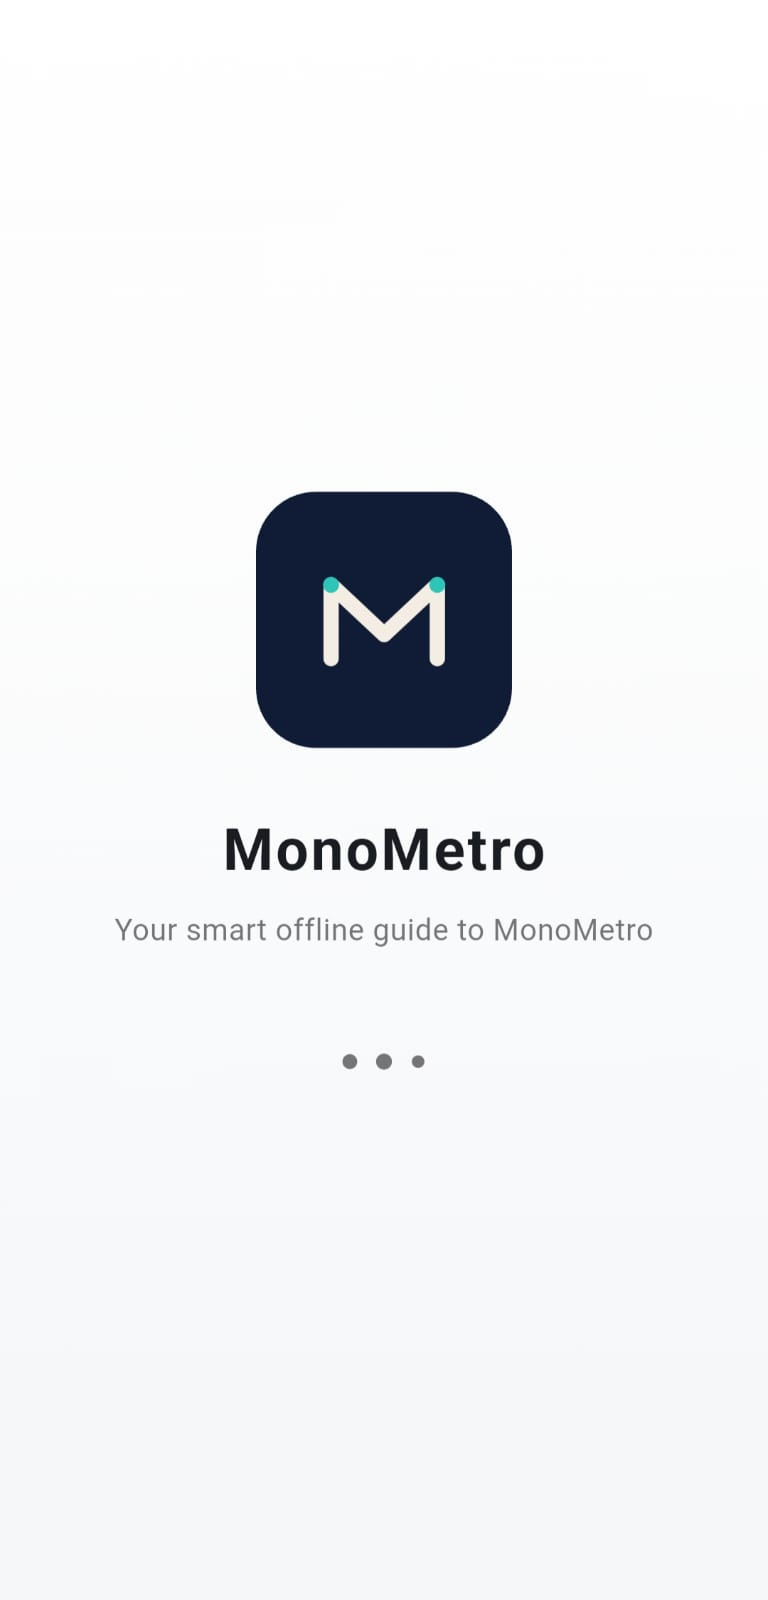
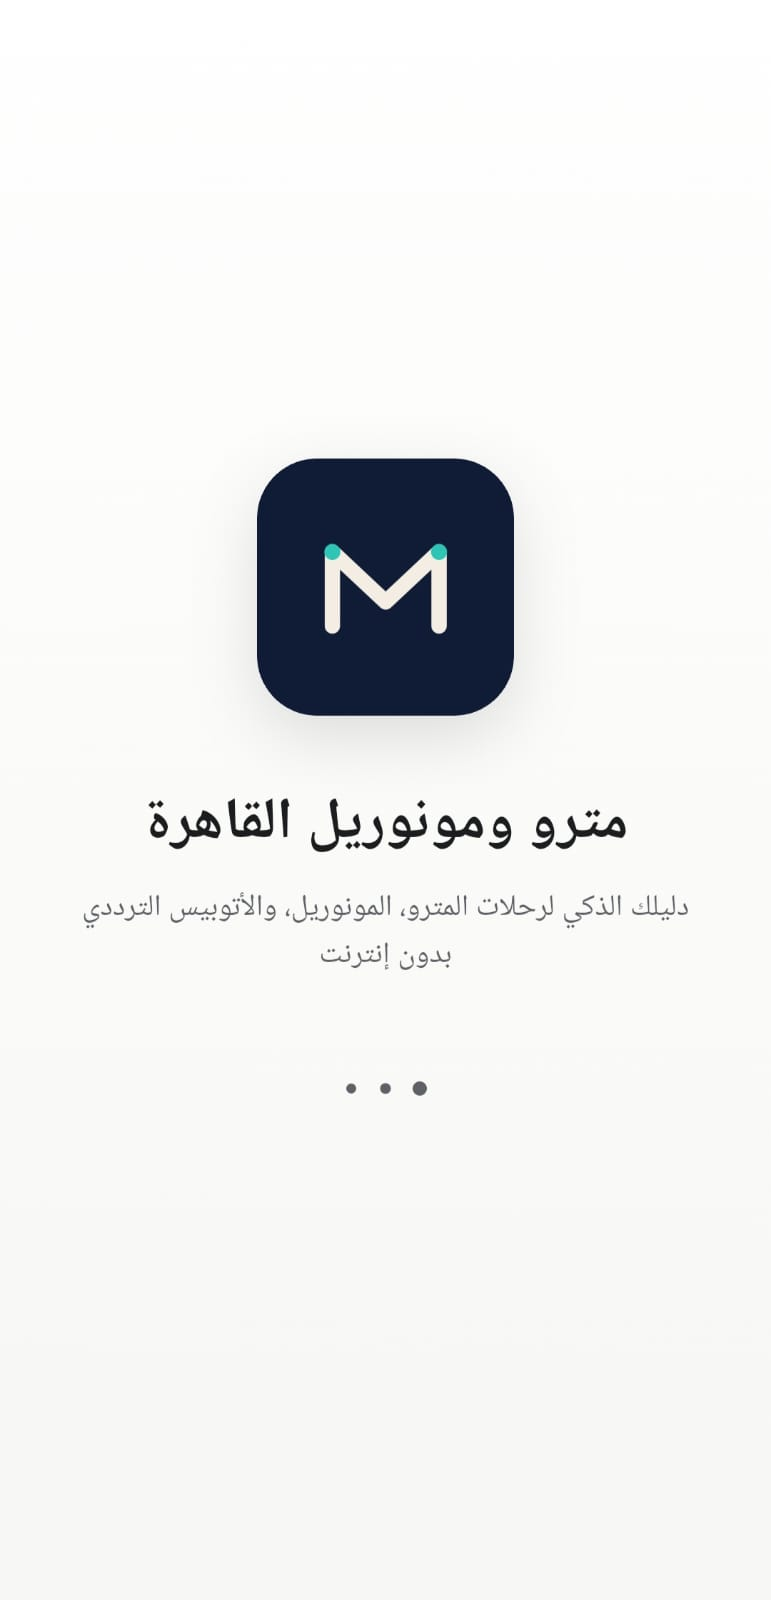
feat: add MonoMetro assets and update Hero component with new app showcases

diff --git a/src/data/portfolioData.ts b/src/data/portfolioData.ts
@@ -140,55 +140,90 @@ export const projects: Project[] = [
   {
     id: 'monometro',
     name: 'MonoMetro',
-    tagline: 'Cairo Metro (3 Lines) & East Nile Monorail Transit App',
-    description: 'Smart Cairo transit navigation guide covering all 3 Metro lines plus the East Nile Monorail with offline shortest-path routing, fare calculations, and AR/EN localization. Currently in review for Google Play Store release.',
+    tagline: 'Cairo Metro (3 Lines), East Cairo Monorail & BRT Transit Guide',
+    description: 'Offline-first transit guide published on Google Play (100+ downloads) covering 3 Cairo Metro lines, the East Cairo Monorail, and a 36-station BRT ring (140+ stations total). AR/EN localization, light/dark themes.',
     category: 'Transit & Utilities',
-    problem: 'Commuters need accessible, multilingual transit route information, station lookup, and fare tier calculations across Metro lines and Monorail routes on the go without cellular connectivity.',
-    solution: 'Developed a fast, responsive mobile app prioritizing accessibility with AR/EN localization, interactive station graphs, and offline routing algorithms.',
+    problem: 'Commuters need accessible, multilingual transit route information, station lookup, and fare tier calculations across Metro lines, Monorail routes, and BRT rings on the go without cellular connectivity.',
+    solution: 'Developed a fast, responsive offline-first mobile app prioritizing accessibility with AR/EN localization, interactive station graphs, GPS nearest-station lookup, and Dijkstra routing algorithms.',
     technologies: [
       'Flutter',
       'Dart',
+      'GetX',
+      'Dijkstra Routing',
+      'Offline-First',
+      'GPS / Location',
       'Localization (AR / EN)',
-      'Offline Routing Logic',
-      'Responsive UI Design',
-      'Accessibility & Theming',
+      'Google Play',
     ],
-    github: 'https://github.com/shimaakhaled1410-hue/metro-flutter',
-    demoUrl: 'https://github.com/shimaakhaled1410-hue/metro-flutter',
-    image: '/assets/Metro_Freelancing_Project_Splash.png',
+    github: 'https://github.com/shimaakhaled1410-hue/MonoMetro-flutter',
+    demoUrl: 'https://play.google.com/store/apps/details?id=com.shimaakhaled.monometro',
+    image: '/assets/Metro_Freelancing_Project_1.png',
     gallery: [
       {
-        title: 'Splash Screen & Rider Category Selection',
-        image: '/assets/Metro_Freelancing_Project_Splash.png',
-        description: 'Modern dark mode onboarding with rider category selection (Standard, Seniors 60+, Special Needs with subsidized 5 EGP fare).',
+        title: 'Dijkstra Routing & Turn-by-Turn Line Navigation',
+        image: '/assets/Metro_Freelancing_Project_1.png',
+        description: 'Fastest vs. comfortable route calculation with accurate ticket pricing, transfer penalties, station counts, and step-by-step colored line guidance.',
       },
       {
-        title: 'Arabic Localized Stations Interface',
-        image: '/assets/Metro_Freelancing_Project_Stations_Arabic.png',
-        description: 'Right-to-Left (RTL) Arabic typography and station routing optimized for native Egyptian commuter experience.',
+        title: 'Station Search by Line & Famous Destinations',
+        image: '/assets/Metro_Freelancing_Project_2.png',
+        description: 'Searchable station directory organized by Metro lines 1, 2, and 3 with prominent interchange badges and direct routing to iconic Cairo landmarks.',
       },
       {
-        title: 'English Stations Interface',
-        image: '/assets/Metro_Freelancing_Project_Stations_English.png',
-        description: 'Left-to-Right (LTR) English station list with line transfers, interchange markers, and travel time estimators.',
+        title: 'Rider Profile Pricing & Trip History',
+        image: '/assets/Metro_Freelancing_Project_3.png',
+        description: 'Tailored fare structures for standard, senior (50% discount), and special-needs riders, paired with offline trip history logging.',
       },
       {
-        title: 'Trip History & Frequent Routes',
-        image: '/assets/Metro_Freelancing_Project_History.png',
-        description: 'Offline trip history tracking previous commutes, saved routes, and quick one-tap directions.',
+        title: 'BRT Ring Network & Offline Metro Map',
+        image: '/assets/Metro_Freelancing_Project_4.png',
+        description: 'Full integration of the 36-station Cairo Bus Rapid Transit (BRT) ring road network alongside a high-resolution offline metro diagram.',
       },
     ],
     featured: true,
     architecturalHighlights: [
-      'Full coverage of Cairo Metro Lines 1, 2, 3 and the East Nile Monorail system',
-      'Bi-directional localization (RTL Arabic / LTR English) built with zero UI shift artifacts',
-      'Offline shortest-path algorithm for multi-line transit route and transfer calculations',
-      'Currently in review for Google Play Store release',
+      'Dijkstra-based routing engine with transfer penalties and walking links',
+      'Fastest and Comfortable (fewest transfers) routing modes with per-mode fare calculation for standard, senior, and special-needs passengers',
+      'Coverage of 3 Cairo Metro lines, the East Cairo Monorail, and a 36-station BRT ring (140+ stations total)',
+      'Nearest-station lookup via GPS, trip history, Arabic/English localization, and light/dark themes',
     ],
     metrics: [
-      { label: 'Lines Supported', value: '3 Metro + Monorail' },
-      { label: 'Connectivity', value: '100% Offline' },
-      { label: 'Status', value: 'Play Store Review' },
+      { label: 'Lines Supported', value: '3 Metro + Monorail + BRT' },
+      { label: 'Stations', value: '140+' },
+      { label: 'Status', value: 'Live on Google Play · 100+ downloads' },
+    ],
+  },
+  {
+    id: 'resqdrive',
+    name: 'ResQDrive',
+    tagline: 'Vehicle Crash Detection (DEPI Graduation Project)',
+    description: 'Native Android vehicle crash detection module built with Kotlin, multi-sensor fusion, and Clean Architecture (10/2026 – Present, DEPI Final Project).',
+    category: 'Native Android & Sensors',
+    problem: 'Detecting vehicular accidents swiftly and reliably on mobile devices without draining device battery through continuous high-frequency sensor polling.',
+    solution: 'Engineered a Native Android (Kotlin) crash detection module using accelerometer and gyroscope listeners, speed gating to preserve battery, and a sliding window buffer for pre-impact sensor fusion.',
+    technologies: [
+      'Kotlin',
+      'Native Android',
+      'Sensors (Accelerometer & Gyroscope)',
+      'Multi-Sensor Fusion',
+      'Clean Architecture',
+    ],
+    github: 'https://github.com/shimaakhaled1410-hue/crash-detection-native-android',
+    demoUrl: 'https://github.com/shimaakhaled1410-hue/crash-detection-native-android',
+    image: '',
+    gallery: [],
+    featured: false,
+    architecturalHighlights: [
+      'Native Android (Kotlin) architecture with dedicated accelerometer and gyroscope sensor listeners',
+      'Sliding window buffer for continuous pre-impact sensor fusion and spike analysis',
+      'Stillness calibration algorithms to confirm post-collision state and eliminate false positives',
+      'Speed gating mechanisms to optimize background battery consumption during normal transit',
+      'Co-architected with Clean Architecture principles as the DEPI Final Project',
+    ],
+    metrics: [
+      { label: 'Platform', value: 'Native Android (Kotlin)' },
+      { label: 'Sensors', value: 'Accelerometer + Gyroscope' },
+      { label: 'Status', value: 'In Development · DEPI Final Project' },
     ],
   },
   {

diff --git a/src/components/ProjectModal.tsx b/src/components/ProjectModal.tsx
@@ -32,7 +32,7 @@ export default function ProjectModal({ project, onClose, onOpenVideo }: ProjectM
 
   if (!project) return null;
 
-  const currentGalleryItem = project.gallery[activeImageIndex] || project.gallery[0];
+  const currentGalleryItem = project.gallery?.[activeImageIndex] || project.gallery?.[0];
 
   return (
     <div className="fixed inset-0 z-50 flex items-center justify-center p-3 sm:p-6 overflow-y-auto bg-slate-950/80 backdrop-blur-md animate-in fade-in duration-200">
@@ -103,16 +103,18 @@ export default function ProjectModal({ project, onClose, onOpenVideo }: ProjectM
           >
             <span className="hidden sm:inline">Clean Arch & </span>State Flow
           </button>
-          <button
-            onClick={() => setActiveTab('gallery')}
-            className={`pb-2.5 px-2 border-b-2 transition-colors whitespace-nowrap ${
-              activeTab === 'gallery'
-                ? 'border-cyan-500 text-cyan-600 dark:text-cyan-400 font-bold'
-                : 'border-transparent text-slate-500 dark:text-slate-400 hover:text-slate-900 dark:hover:text-white'
-            }`}
-          >
-            Gallery ({project.gallery.length})
-          </button>
+          {project.gallery && project.gallery.length > 0 && (
+            <button
+              onClick={() => setActiveTab('gallery')}
+              className={`pb-2.5 px-2 border-b-2 transition-colors whitespace-nowrap ${
+                activeTab === 'gallery'
+                  ? 'border-cyan-500 text-cyan-600 dark:text-cyan-400 font-bold'
+                  : 'border-transparent text-slate-500 dark:text-slate-400 hover:text-slate-900 dark:hover:text-white'
+              }`}
+            >
+              Gallery ({project.gallery.length})
+            </button>
+          )}
         </div>
 
         {/* Scrollable Content */}
@@ -348,7 +350,7 @@ export default function ProjectModal({ project, onClose, onOpenVideo }: ProjectM
           )}
 
           {/* TAB 3: GALLERY */}
-          {activeTab === 'gallery' && (
+          {activeTab === 'gallery' && project.gallery && project.gallery.length > 0 && (
             <div className="space-y-6">
               {currentGalleryItem && (
                 <div className="space-y-3">

diff --git a/src/components/Projects.tsx b/src/components/Projects.tsx
@@ -9,7 +9,8 @@ import {
   ArrowRight, 
   Play, 
   Eye,
-  Video
+  Video,
+  Activity
 } from 'lucide-react';
 import { GithubIcon } from '@/components/Icons';
 
@@ -27,6 +28,7 @@ export default function Projects({ onSelectProject, onOpenVideo }: ProjectsProps
     { id: 'Real-Time & Cloud', label: 'Cloud & Realtime' },
     { id: 'Community & Social', label: 'Social & Community' },
     { id: 'Transit & Utilities', label: 'Transit & Utilities' },
+    { id: 'Native Android & Sensors', label: 'Native Android & Sensors' },
   ];
 
   const filteredProjects = projects.filter((p) => {
@@ -79,7 +81,16 @@ export default function Projects({ onSelectProject, onOpenVideo }: ProjectsProps
               <div>
                 {/* Cover Image */}
                 <div className="relative aspect-[16/9] w-full bg-slate-950 overflow-hidden border-b border-slate-200 dark:border-slate-800">
-                  {project.id === 'trivio' ? (
+                  {project.id === 'resqdrive' || !project.image ? (
+                    <div className="absolute inset-0 flex flex-col items-center justify-center bg-[radial-gradient(ellipse_at_center,_#1e293b_0%,_#0f172a_60%,_#070a11_100%)]">
+                      <div className="w-16 h-16 rounded-2xl bg-cyan-950/60 border border-cyan-800/80 flex items-center justify-center text-cyan-400 group-hover:scale-110 transition-transform duration-500 shadow-lg shadow-cyan-500/10">
+                        <Activity className="w-8 h-8 text-cyan-400" />
+                      </div>
+                      <span className="mt-3 text-xs font-semibold tracking-wider text-slate-400 uppercase font-mono">
+                        Native Android Sensor Fusion
+                      </span>
+                    </div>
+                  ) : project.id === 'trivio' ? (
                     /* Trivio: full-width logo on dark-slate gradient backdrop */
                     <div className="absolute inset-0 flex items-center justify-center bg-[radial-gradient(ellipse_at_center,_#1e293b_0%,_#0f172a_60%,_#070a11_100%)]">
                       <div className="relative w-[85%] h-[60%] group-hover:scale-105 transition-transform duration-500">

diff --git a/src/components/Hero.tsx b/src/components/Hero.tsx
@@ -28,7 +28,7 @@ export default function Hero({ onSelectProject }: HeroProps) {
   const appScreenshots: Record<AppKey, string[]> = {
     calogram: Array.from({ length: 28 }, (_, i) => `/assets/${i + 1} CaloGram.jpeg`),
     wedo: Array.from({ length: 12 }, (_, i) => `/assets/${i + 1} WeDo.jpeg`),
-    monometro: Array.from({ length: 8 }, (_, i) => `/assets/${i + 1} MonoMetro.jpeg`),
+    monometro: Array.from({ length: 15 }, (_, i) => `/assets/${i + 1} MonoMetro.jpeg`),
   };
 
   const appShowcases: Record<AppKey, {
@@ -49,7 +49,7 @@ export default function Hero({ onSelectProject }: HeroProps) {
     monometro: {
       id: 'monometro',
       name: 'MonoMetro',
-      fallbackImage: '/assets/Metro_Freelancing_Project_Splash.png',
+      fallbackImage: '/assets/Metro_Freelancing_Project_1.png',
     },
   };
 

diff --git a/src/types/index.ts b/src/types/index.ts
@@ -3,7 +3,7 @@ export interface Project {
   name: string;
   tagline: string;
   description: string;
-  category: 'AI & Mobile' | 'Real-Time & Cloud' | 'Community & Social' | 'Transit & Utilities';
+  category: 'AI & Mobile' | 'Real-Time & Cloud' | 'Community & Social' | 'Transit & Utilities' | 'Native Android & Sensors';
   problem: string;
   solution: string;
   technologies: string[];
